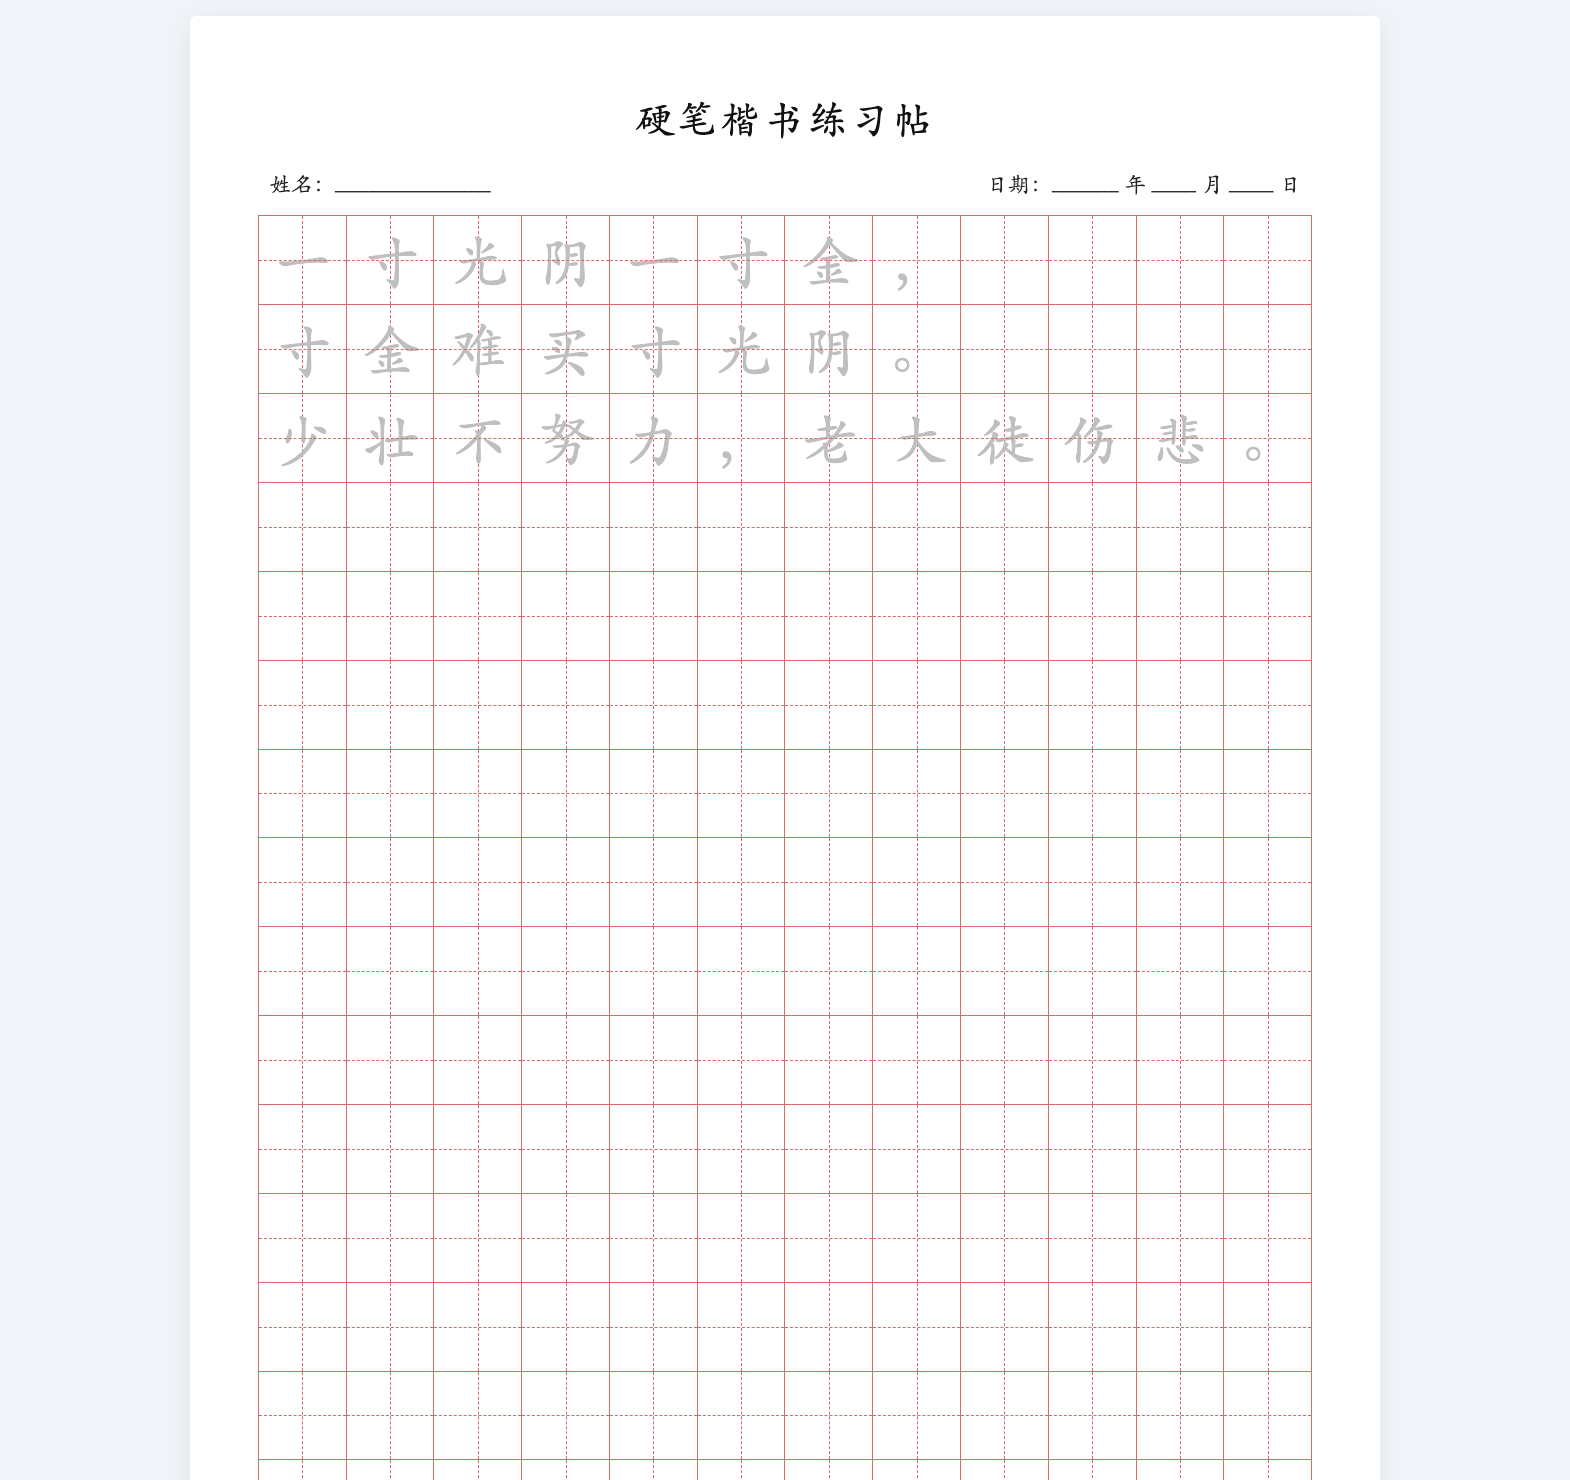
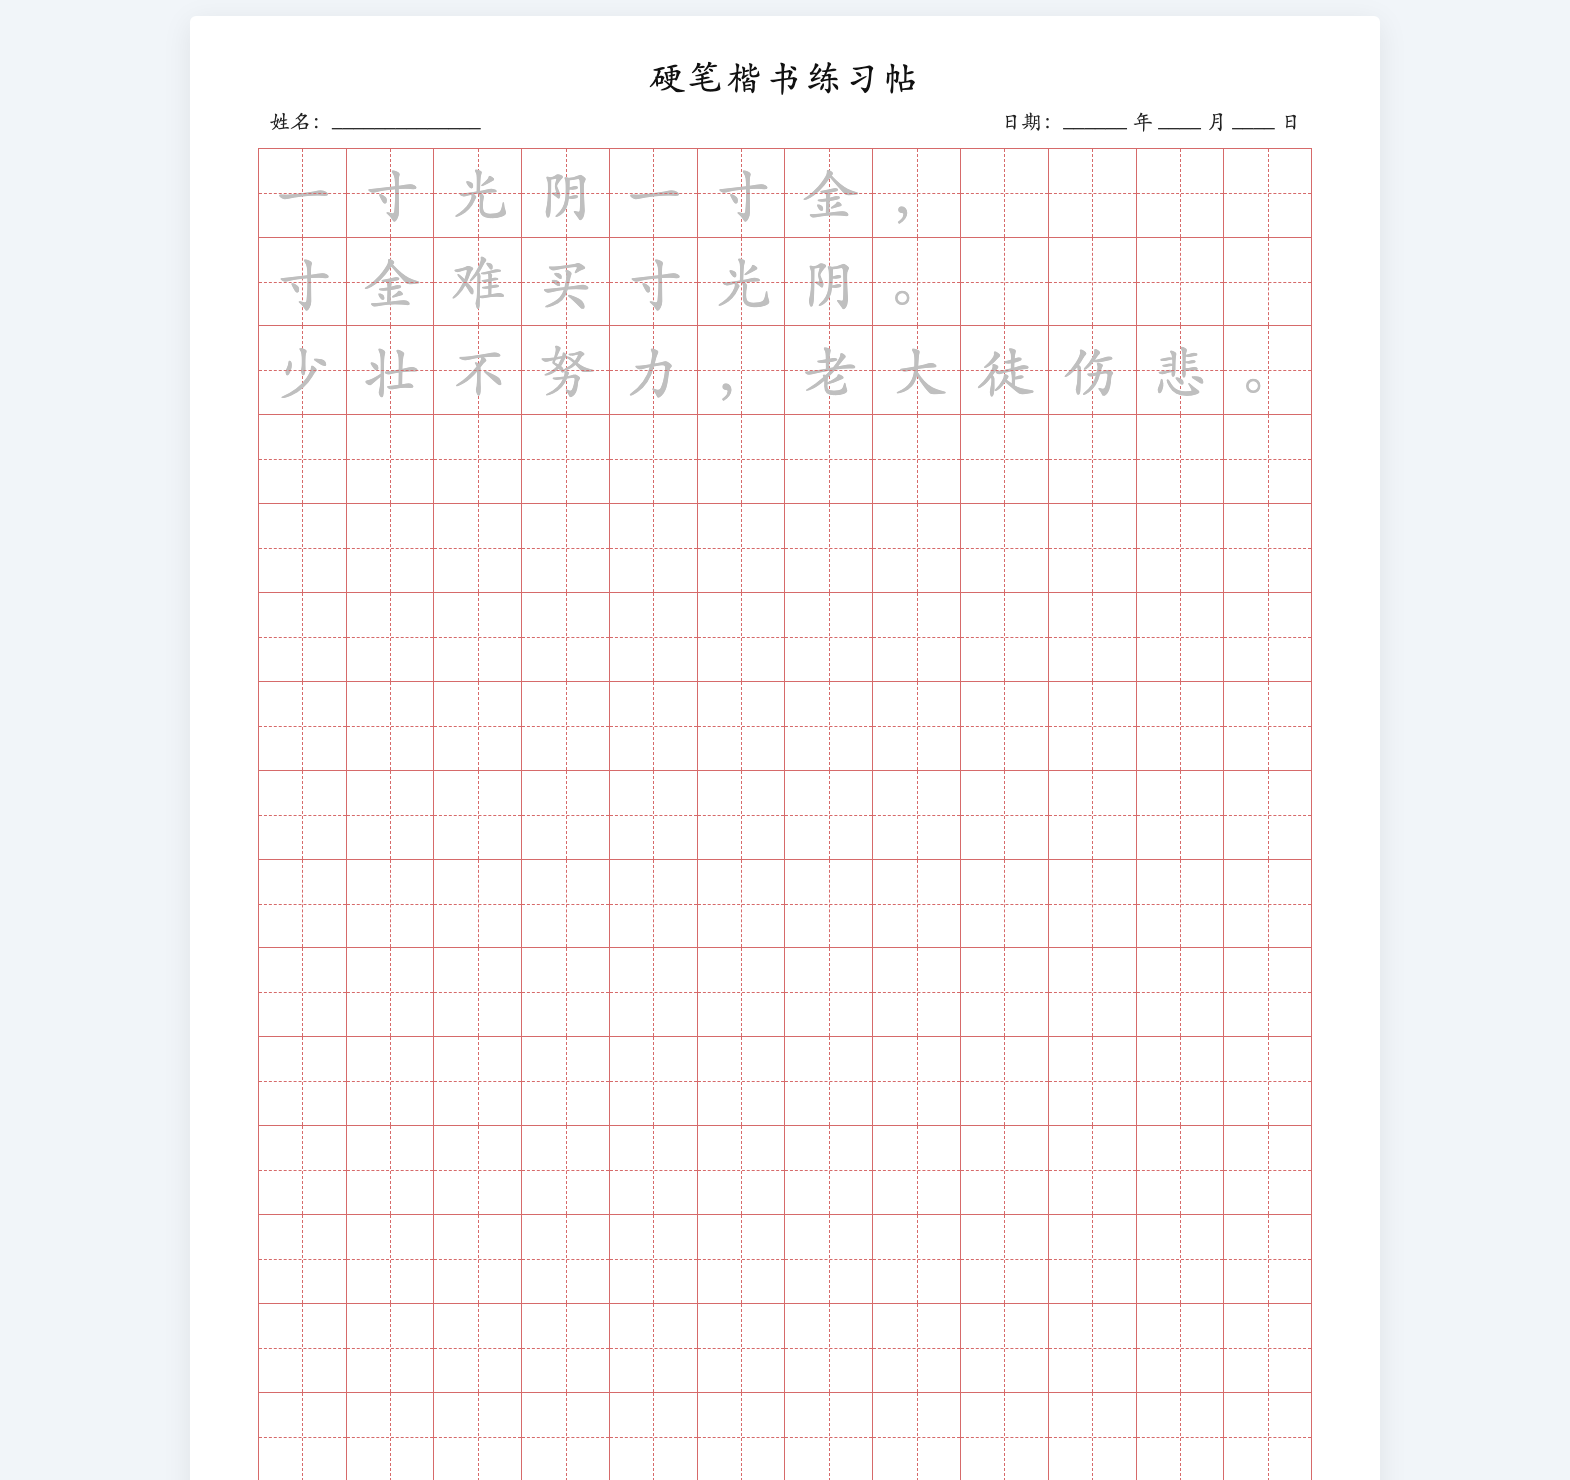
perf: 紧凑化顶部标题区空间并优化打印安全区域

diff --git a/index.html b/index.html
@@ -243,17 +243,17 @@ body {
 .sheet {
   width: 210mm; height: 297mm; margin: 0 auto 10px;
   background: #fff; box-shadow: 0 2px 10px rgba(0,0,0,.16);
-  padding: 12mm 12mm 10mm; overflow: hidden; position: relative;
+  padding: 7mm 12mm 8mm; overflow: hidden; position: relative;
 }
 .stitle {
   font-family: "Kaiti SC", "STKaiti", "KaiTi", "FZKai-Z03S", serif;
-  font-size: 20pt; text-align: center; letter-spacing: 2px; color: #111;
-  margin: 1mm 0 4mm;
+  font-size: 18pt; text-align: center; letter-spacing: 2px; color: #111;
+  line-height: 1.15; margin: 0 0 2mm;
 }
 .sinfo {
   font-family: "Kaiti SC", "STKaiti", "KaiTi", serif;
-  font-size: 11pt; color: #222;
-  display: flex; justify-content: space-between; margin: 0 2mm 3mm;
+  font-size: 10.5pt; color: #222; line-height: 1.2;
+  display: flex; justify-content: space-between; margin: 0 2mm 2.5mm;
 }
 table.grid {
   border-collapse: collapse; table-layout: fixed;
@@ -371,8 +371,10 @@ table.v3 td { height: var(--cw); }
     margin: 0 !important;
     border: none !important;
     width: 210mm !important;
-    height: 296mm !important;
-    max-height: 296mm !important;
+    height: auto !important;
+    min-height: auto !important;
+    max-height: 285mm !important;
+    padding: 7mm 12mm 8mm !important;
     box-sizing: border-box !important;
     overflow: hidden !important;
     position: relative !important;
@@ -384,6 +386,10 @@ table.v3 td { height: var(--cw); }
   .sheet + .sheet {
     page-break-before: always !important;
     break-before: page !important;
+  }
+  table.grid, table.poem-grid, tr {
+    page-break-inside: avoid !important;
+    break-inside: avoid !important;
   }
 }
 @page { size: 210mm 297mm; margin: 0; }
@@ -629,8 +635,8 @@ table.v3 td { height: var(--cw); }
       }
     });
 
-    var headH = (hasTitle ? 16 : 0) + (showInfo ? 10 : 0);
-    var usable = 270 - headH; // 内容区 296-22-headH，预留安全边距避免打印溢出空白页
+    var headH = (hasTitle ? 10 : 0) + (showInfo ? 6 : 0);
+    var usable = 265 - headH; // 压缩顶部空间后，可用内容区基准扩展至 265mm（总高度严格控制在打印机物理安全范围内）
     var rows = Math.max(4, Math.floor(usable / g.rh));
     var cellsPerPage = rows * g.cols;
 
@@ -702,8 +708,8 @@ table.v3 td { height: var(--cw); }
   function buildPoem(g, grid, title, showInfo, text, trace) {
     var root = $("#pages");
     var hasTitle = !!title;
-    var headH = (hasTitle ? 16 : 0) + (showInfo ? 10 : 0);
-    var usable = 270 - headH;
+    var headH = (hasTitle ? 10 : 0) + (showInfo ? 6 : 0);
+    var usable = 265 - headH;
     var cols = g.cols;
     var cellW = 186 / cols; // mm
     var pyh = cellW * 0.52;
